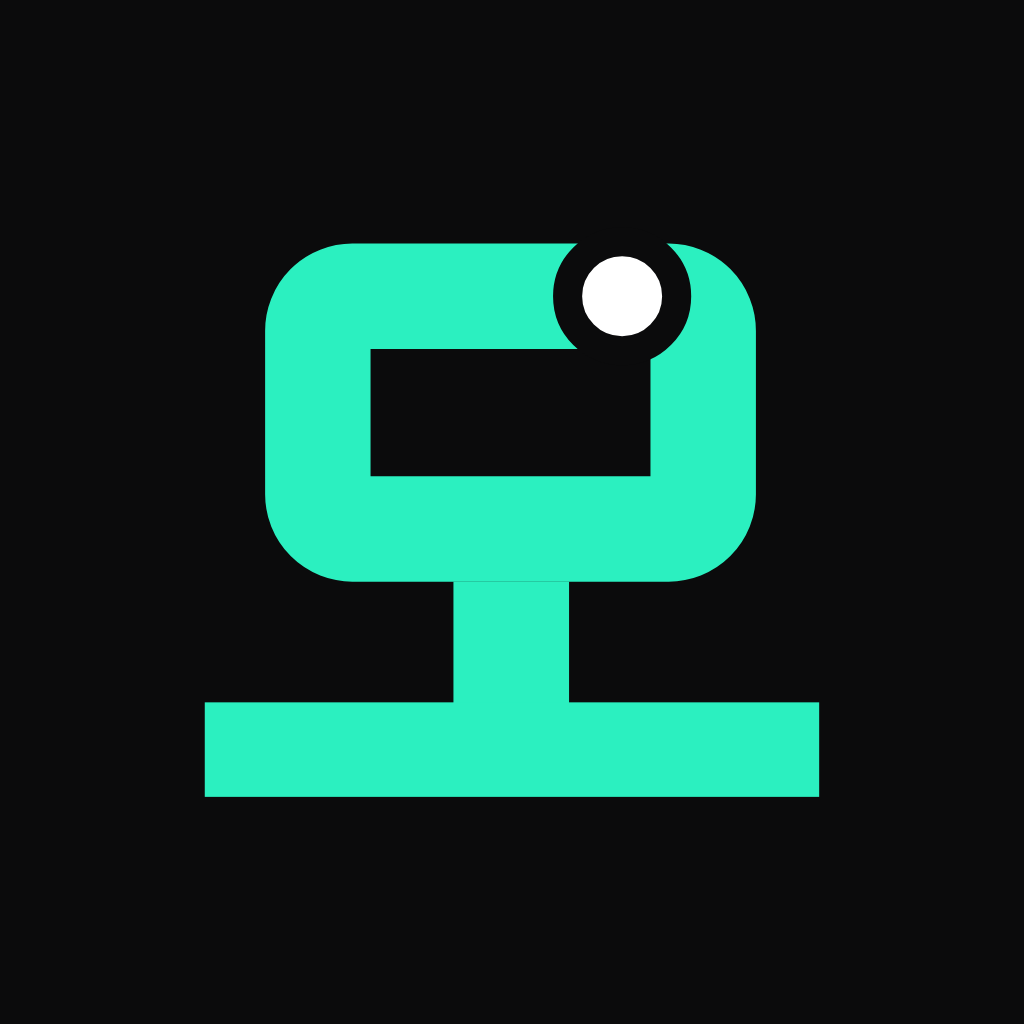
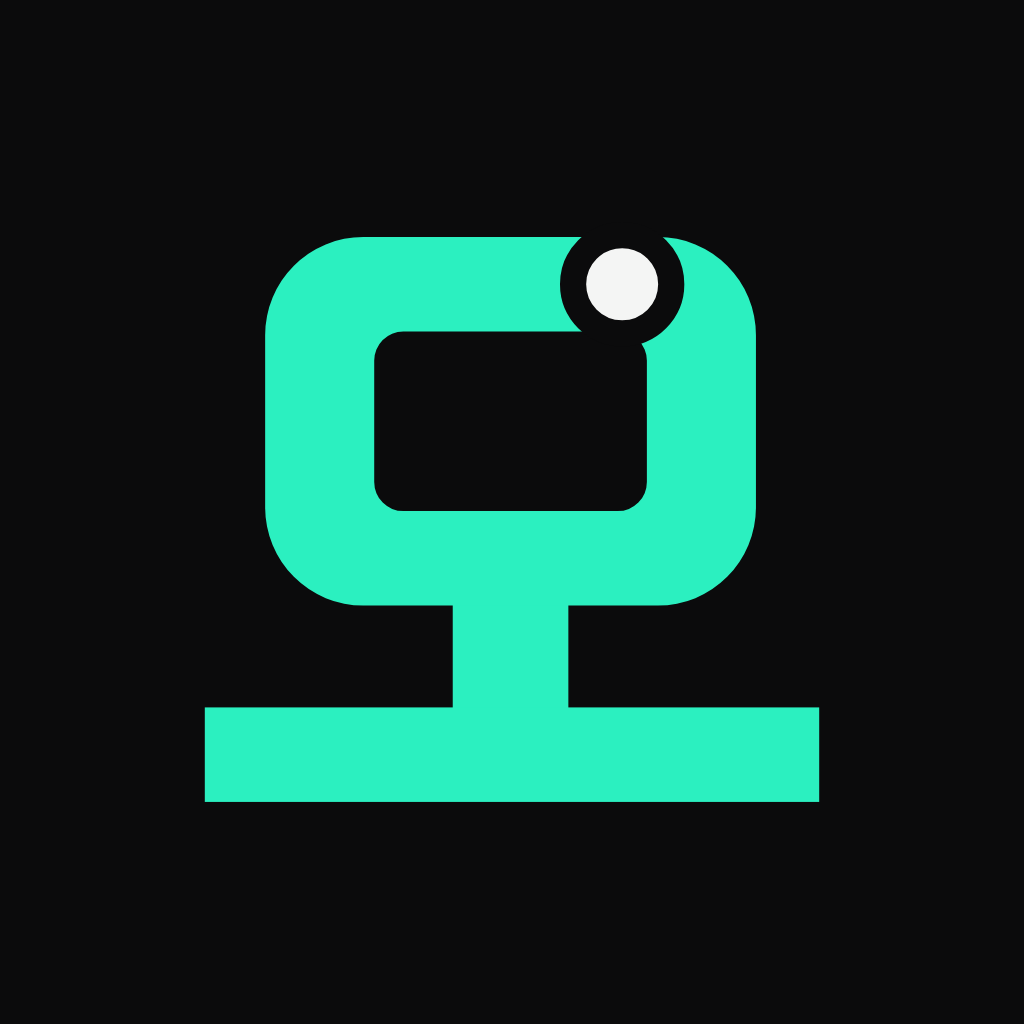
design: 앱 로고 다듬기 · 애니메이션 스플래시
- "모" 심볼: ㅁ 루프를 트랙처럼 안팎 모서리 둥글게, "달리"와 같은 획 대비, 속 넓힘, 출발점 조금 작게
- 앱 아이콘 다시 생성, iOS 18 다크 · tinted 아이콘 추가, Android 적응형 · 모노크롬 정리
- 네이티브 스플래시를 심볼로 바꾸고 앱 안 BrandSplash가 이어 받아 출발점이 한 바퀴 돈 뒤 사라짐 (동작 줄이기 대응)
- 로딩 · 스플래시 출발점이 둥근 트랙 길을 따라 돎
- 아이콘 · 스플래시 생성 스크립트 scripts/brand, 결정 로그 29항

diff --git a/frontend/src/components/Brand/BrandSplash.tsx b/frontend/src/components/Brand/BrandSplash.tsx
@@ -1,0 +1,118 @@
+import { useEffect, useState } from "react";
+import { StyleSheet, View } from "react-native";
+import Animated, {
+  Easing,
+  useAnimatedProps,
+  useAnimatedStyle,
+  useReducedMotion,
+  useSharedValue,
+  withDelay,
+  withTiming,
+} from "react-native-reanimated";
+import Svg, { Circle } from "react-native-svg";
+
+import { darkTheme } from "@/design/theme";
+import { motion } from "@/design/tokens";
+
+import { pointOnTrack } from "./BrandLoader";
+import { MoGlyph } from "./BrandSymbol";
+import { MO } from "./brandGeometry";
+
+const AnimatedCircle = Animated.createAnimatedComponent(Circle);
+
+// 네이티브 스플래시(app.json expo-splash-screen)와 같은 크기 · 자리 · 색. 바꾸면 둘 다 바꾼다.
+export const SPLASH_SYMBOL_SIZE = 120;
+
+type Props = {
+  // 화면에 그려졌다: 이때 네이티브 스플래시를 내리면 끊김 없이 이어진다
+  onShown: () => void;
+  // 애니메이션이 끝나 사라졌다
+  onDone: () => void;
+};
+
+// 앱 시작 스플래시. 네이티브 스플래시의 심볼을 그대로 이어받아 출발점이 "모" 루프를 한 바퀴 돈 뒤 사라진다.
+// 동작 줄이기 설정이면 돌지 않고 바로 사라진다 (ACCESSIBILITY 10항).
+export function BrandSplash({ onShown, onDone }: Props) {
+  const reduced = useReducedMotion();
+  const [shown, setShown] = useState(false);
+  const lap = useSharedValue(0);
+  const opacity = useSharedValue(1);
+  const colors = darkTheme.colors;
+
+  useEffect(() => {
+    if (!shown) return;
+    const lapMs = reduced ? 0 : motion.splashLap;
+    if (!reduced)
+      lap.value = withTiming(1, {
+        duration: lapMs,
+        easing: Easing.inOut(Easing.cubic),
+      });
+    opacity.value = withDelay(
+      lapMs,
+      withTiming(0, { duration: motion.splashFade }),
+    );
+    const timer = setTimeout(onDone, lapMs + motion.splashFade);
+    return () => clearTimeout(timer);
+    // 한 번만 재생한다
+    // eslint-disable-next-line react-hooks/exhaustive-deps
+  }, [shown]);
+
+  const dotProps = useAnimatedProps(() => {
+    const [cx, cy] = pointOnTrack(lap.value);
+    return { cx, cy };
+  });
+  const fade = useAnimatedStyle(() => ({ opacity: opacity.value }));
+
+  const b = MO.bounds;
+  const side = Math.max(b.width, b.height);
+  return (
+    <Animated.View
+      pointerEvents={shown ? "none" : "auto"}
+      accessibilityElementsHidden
+      importantForAccessibility="no-hide-descendants"
+      onLayout={() => {
+        if (shown) return;
+        setShown(true);
+        onShown();
+      }}
+      style={[
+        StyleSheet.absoluteFill,
+        styles.root,
+        { backgroundColor: colors.bg.canvas },
+        fade,
+      ]}
+    >
+      <View>
+        <Svg
+          width={SPLASH_SYMBOL_SIZE}
+          height={SPLASH_SYMBOL_SIZE}
+          viewBox={`${b.x - (side - b.width) / 2} ${b.y - (side - b.height) / 2} ${side} ${side}`}
+        >
+          <MoGlyph
+            glyph={colors.action.primary}
+            dotFill={colors.text.primary}
+            dotRing={colors.route.casing}
+            hideDot
+          />
+          <AnimatedCircle
+            animatedProps={dotProps}
+            cx={MO.dot.x}
+            cy={MO.dot.y}
+            r={MO.dot.r}
+            fill={colors.text.primary}
+            stroke={colors.bg.canvas}
+            strokeWidth={MO.dot.ring}
+          />
+        </Svg>
+      </View>
+    </Animated.View>
+  );
+}
+
+const styles = StyleSheet.create({
+  root: {
+    alignItems: "center",
+    justifyContent: "center",
+    zIndex: 1000,
+  },
+});

diff --git a/frontend/src/components/Brand/BrandLoader.tsx b/frontend/src/components/Brand/BrandLoader.tsx
@@ -41,16 +41,9 @@ export function BrandLoader({
       );
   }, [reduced, t]);
 
-  const { loop, dot } = MO;
+  const { dot } = MO;
   const animatedProps = useAnimatedProps(() => {
-    const [x, y] = pointOnLoop(
-      t.value,
-      loop.x,
-      loop.y,
-      loop.width,
-      loop.height,
-      dot.x,
-    );
+    const [x, y] = pointOnTrack(t.value);
     return { cx: x, cy: y };
   });
 
@@ -87,23 +80,40 @@ export function BrandLoader({
   );
 }
 
-// 루프(사각형 중심선) 둘레를 출발점부터 시계 방향으로 진행 비율 p만큼 간 지점
-function pointOnLoop(
-  p: number,
-  x: number,
-  y: number,
-  w: number,
-  h: number,
-  startX: number,
-): [number, number] {
+// 루프 획 가운데(둥근 사각형) 둘레를 출발점부터 시계 방향으로 진행 비율 p만큼 간 지점.
+// 스플래시 애니메이션도 같은 길을 쓴다.
+export function pointOnTrack(p: number): [number, number] {
   "worklet";
-  const per = 2 * (w + h);
-  let d = (((startX - x + p * per) % per) + per) % per;
-  if (d < w) return [x + d, y];
-  d -= w;
-  if (d < h) return [x + w, y + d];
-  d -= h;
-  if (d < w) return [x + w - d, y + h];
-  d -= w;
-  return [x, y + h - d];
+  const { x, y, width: w, height: h, radius: r } = MO.track;
+  const sw = w - 2 * r;
+  const sh = h - 2 * r;
+  const arc = (Math.PI * r) / 2;
+  const per = 2 * (sw + sh) + 4 * arc;
+  // 위 변 위의 출발점에서 시작
+  let d = ((((MO.dot.x - (x + r)) + p * per) % per) + per) % per;
+  if (d < sw) return [x + r + d, y];
+  d -= sw;
+  if (d < arc) {
+    const a = -Math.PI / 2 + d / r;
+    return [x + w - r + r * Math.cos(a), y + r + r * Math.sin(a)];
+  }
+  d -= arc;
+  if (d < sh) return [x + w, y + r + d];
+  d -= sh;
+  if (d < arc) {
+    const a = d / r;
+    return [x + w - r + r * Math.cos(a), y + h - r + r * Math.sin(a)];
+  }
+  d -= arc;
+  if (d < sw) return [x + w - r - d, y + h];
+  d -= sw;
+  if (d < arc) {
+    const a = Math.PI / 2 + d / r;
+    return [x + r + r * Math.cos(a), y + h - r + r * Math.sin(a)];
+  }
+  d -= arc;
+  if (d < sh) return [x, y + h - r - d];
+  d -= sh;
+  const a = Math.PI + d / r;
+  return [x + r + r * Math.cos(a), y + r + r * Math.sin(a)];
 }

diff --git a/frontend/src/app/_layout.tsx b/frontend/src/app/_layout.tsx
@@ -4,6 +4,7 @@ import { Stack } from 'expo-router';
 import * as SplashScreen from 'expo-splash-screen';
 import { useEffect, useState } from 'react';
 
+import { BrandSplash } from '@/components/Brand/BrandSplash';
 import { darkTheme, lightTheme, ThemeProvider } from '@/design/theme';
 import { fontAssets, fontFamily } from '@/design/tokens';
 import { restoreSession, useAuthStatus } from '@/features/auth/session';
@@ -18,15 +19,14 @@ export default function RootLayout() {
   const [queryClient] = useState(() => new QueryClient());
   const auth = useAuthStatus();
   const ready = (fontsLoaded || !!fontError) && auth !== 'restoring';
+  // 네이티브 스플래시 뒤를 이어 받는 앱 안 스플래시 (한 번만)
+  const [splashDone, setSplashDone] = useState(false);
 
   // AUTH-003: 앱을 켜면 저장된 세션부터 확인한다
   useEffect(() => {
     restoreSession();
   }, []);
 
-  useEffect(() => {
-    if (ready) SplashScreen.hideAsync();
-  }, [ready]);
 
   // 로그아웃 · 탈퇴하면 이전 계정의 서버 데이터 캐시를 비운다
   useEffect(() => {
@@ -34,6 +34,7 @@ export default function RootLayout() {
   }, [auth, queryClient]);
 
   // 폰트와 세션 확인이 끝날 때까지 splash를 유지한다. 폰트 로드에 실패하면 시스템 폰트로 계속 진행한다.
+  // 준비되면 앱 안 스플래시가 같은 모양으로 그려진 뒤 네이티브 스플래시를 내리고, 출발점이 한 바퀴 돈 뒤 사라진다.
   if (!ready) return null;
 
   return (
@@ -95,6 +96,7 @@ export default function RootLayout() {
           {/* 약관 · 개인정보 처리방침은 로그인 전에도 본다 */}
           <Stack.Screen name="legal/[kind]" options={{ headerShown: false }} />
         </Stack>
+        {splashDone ? null : <BrandSplash onShown={() => SplashScreen.hideAsync()} onDone={() => setSplashDone(true)} />}
       </ThemeProvider>
     </QueryClientProvider>
   );

diff --git a/frontend/src/components/Brand/brandGeometry.ts b/frontend/src/components/Brand/brandGeometry.ts
@@ -1,4 +1,4 @@
-// 자동 생성 파일. 직접 고치지 않는다 (FOUNDATION-DECISION-LOG 11항).
+// 생성 파일. 직접 고치지 않는다 (FOUNDATION-DECISION-LOG 11 · 29항).
 // 달리모 워드마크·심볼 geometry. 단위는 Pretendard Black의 글꼴 단위(UPM 2048), y는 아래로 증가.
 // "달", "리"는 Pretendard Black(SIL OFL 1.1) 글리프 윤곽이고, "모"는 ㅁ을 코스 루프 + 출발점으로 다시 그린 전용 글자다.
 export const WORDMARK = {
@@ -14,11 +14,16 @@ export const WORDMARK = {
 } as const;
 
 // "모" 한 글자 (심볼). 기준 x=0
+// ㅁ은 육상 트랙처럼 바깥 · 안쪽 모서리가 모두 둥근 루프다. 세로 획은 가로 획보다 조금 두껍다("달리"와 같은 대비).
+// 작은 크기(29~60px)에서 속이 막히지 않도록 루프 안쪽을 넓게 두었다 (FOUNDATION-DECISION-LOG 29항).
 export const MO = {
-  loop: { x: 353, y: 569, width: 1060, height: 640, radius: 95, stroke: 290 },
-  stem: { x: 726, y: 1354, width: 318, height: 372 },
+  // 루프 윤곽 (바깥 · 안쪽 둥근 사각형, fill-rule evenodd)
+  loop: "M478 392H1288A270 270 0 0 1 1558 662V1136A270 270 0 0 1 1288 1406H478A270 270 0 0 1 208 1136V662A270 270 0 0 1 478 392ZM588 652H1178A80 80 0 0 1 1258 732V1066A80 80 0 0 1 1178 1146H588A80 80 0 0 1 508 1066V732A80 80 0 0 1 588 652Z",
+  // 출발점이 도는 길 (루프 획 가운데를 지나는 둥근 사각형)
+  track: { x: 358, y: 522, width: 1050, height: 754, radius: 150 },
+  stem: { x: 724, y: 1386, width: 318, height: 330 },
   bar: { x: 42, y: 1686, width: 1690, height: 260 },
-  dot: { x: 1190, y: 569, r: 150, ring: 80 },
+  dot: { x: 1190, y: 522, r: 135, ring: 72 },
   // 심볼 외곽 (점 포함)
-  bounds: { x: 42, y: 379, width: 1690, height: 1567 },
+  bounds: { x: 42, y: 351, width: 1690, height: 1595 },
 } as const;

diff --git a/frontend/scripts/brand/render.js b/frontend/scripts/brand/render.js
@@ -1,0 +1,9 @@
+const { chromium } = require('playwright'); const fs = require('fs');
+const jobs = JSON.parse(process.argv[2]);
+(async () => { const b = await chromium.launch({ executablePath: '/opt/pw-browsers/chromium-1194/chrome-linux/chrome', args: ['--no-sandbox'] });
+ for (const [svg, out, w, h] of jobs) {
+  const p = await b.newPage({ viewport: { width: w, height: h }, deviceScaleFactor: 1 });
+  const s = fs.readFileSync(svg, 'utf8').replace(/<svg /, `<svg style="display:block;width:${w}px;height:${h}px" `);
+  await p.setContent(`<html><body style="margin:0;background:transparent">${s}</body></html>`);
+  await p.screenshot({ path: out, omitBackground: true, clip: { x: 0, y: 0, width: w, height: h } }); await p.close(); }
+ await b.close(); })();

diff --git a/frontend/src/components/Brand/BrandSymbol.tsx b/frontend/src/components/Brand/BrandSymbol.tsx
@@ -1,5 +1,5 @@
 import { View } from "react-native";
-import Svg, { Circle, G, Rect } from "react-native-svg";
+import Svg, { Circle, G, Path, Rect } from "react-native-svg";
 
 import { darkTheme, useTheme } from "@/design/theme";
 
@@ -69,16 +69,7 @@ export function MoGlyph({
         height={bar.height}
         fill={glyph}
       />
-      <Rect
-        x={loop.x}
-        y={loop.y}
-        width={loop.width}
-        height={loop.height}
-        rx={loop.radius}
-        fill="none"
-        stroke={glyph}
-        strokeWidth={loop.stroke}
-      />
+      <Path d={loop} fill={glyph} fillRule="evenodd" />
       {hideDot ? null : (
         <Circle
           cx={dot.x}

diff --git a/frontend/src/design/tokens/motion.ts b/frontend/src/design/tokens/motion.ts
@@ -7,6 +7,9 @@ export const motion = {
   routeWarning: 250,
   finishReveal: 400,
   countdownStep: 1000,
+  // 앱 시작: 출발점이 "모" 루프를 한 바퀴 돈 뒤 사라진다 (FOUNDATION-DECISION-LOG 29항)
+  splashLap: 900,
+  splashFade: 280,
 } as const;
 
 // pressed 상태 피드백 불투명도

diff --git a/frontend/scripts/brand/brand_assets.py b/frontend/scripts/brand/brand_assets.py
@@ -1,0 +1,56 @@
+# 앱 아이콘 · 스플래시 · 파비콘 SVG를 심볼 geometry(src/components/Brand/brandGeometry.ts)에서 만든다.
+# 실행: cd frontend/scripts/brand && python3 brand_assets.py && node render.js "$(cat jobs.json)"
+#       (render.js는 Playwright Chromium으로 PNG를 그린다) → out/*.png를 assets/images로 복사.
+#       icon.png · android-icon-background.png는 알파 없이 RGB로 저장한다.
+import re, json, os
+HERE=os.path.dirname(os.path.abspath(__file__))
+os.chdir(HERE); os.makedirs('out', exist_ok=True)
+src=open(os.path.join(HERE,'../../src/components/Brand/brandGeometry.ts')).read()
+mo=src[src.index('export const MO'):]
+loop=re.search(r'loop: "([^"]+)"',mo).group(1)
+def obj(name):
+    m=re.search(name+r': \{([^}]+)\}',mo).group(1)
+    return {k:float(v) for k,v in re.findall(r'(\w+): ([\d.]+)',m)}
+stem,bar,dot,bounds=obj('stem'),obj('bar'),obj('dot'),obj('bounds')
+MINT='#2BF0C0'; INK='#0B0B0C'; WHITE='#F4F5F4'  # darkTheme text.primary (앱 안 심볼과 같은 색)
+
+def glyph(c, dotfill, ring=None, knock=False):
+    # ring=None + knock: 출발점 둘레를 투명하게 뚫는다 (모노크롬 · tinted)
+    body=(f'<rect x="{stem["x"]}" y="{stem["y"]}" width="{stem["width"]}" height="{stem["height"]}"/>'
+          f'<rect x="{bar["x"]}" y="{bar["y"]}" width="{bar["width"]}" height="{bar["height"]}"/>'
+          f'<path fill-rule="evenodd" d="{loop}"/>')
+    ro=dot['r']+dot['ring']/2
+    if knock:
+        return (f'<defs><mask id="k"><rect x="-5000" y="-5000" width="20000" height="20000" fill="#fff"/>'
+                f'<circle cx="{dot["x"]}" cy="{dot["y"]}" r="{ro}" fill="#000"/></mask></defs>'
+                f'<g fill="{c}" mask="url(#k)">{body}</g><circle cx="{dot["x"]}" cy="{dot["y"]}" r="{dot["r"]}" fill="{dotfill}"/>')
+    return (f'<g fill="{c}">{body}</g><circle cx="{dot["x"]}" cy="{dot["y"]}" r="{dot["r"]}" fill="{dotfill}" '
+            f'stroke="{ring}" stroke-width="{dot["ring"]}"/>')
+
+def square(inner, size, glyph_frac, bg=None, dy=0.0):
+    # glyph_frac: 캔버스 대비 심볼 정사각 viewBox 한 변 비율. dy: 아래(+)로 옮길 비율
+    side=max(bounds['width'],bounds['height'])
+    vx=bounds['x']-(side-bounds['width'])/2; vy=bounds['y']-(side-bounds['height'])/2
+    g=size*glyph_frac; sc=g/side
+    tx=(size-g)/2-vx*sc; ty=(size-g)/2-vy*sc+dy*size
+    s=f'<svg xmlns="http://www.w3.org/2000/svg" viewBox="0 0 {size} {size}" width="{size}" height="{size}">'
+    if bg: s+=f'<rect width="{size}" height="{size}" fill="{bg}"/>'
+    return s+f'<g transform="translate({tx:.3f},{ty:.3f}) scale({sc:.6f})">{inner}</g></svg>'
+
+signal=glyph(MINT, WHITE, INK)
+jobs=[]
+def out(name, svg, size):
+    open(name+'.svg','w').write(svg); jobs.append([name+'.svg', 'out/'+name+'.png', size, size])
+# iOS: 앱 아이콘(검정 바탕). 기호가 홈 화면에서 너무 작지 않게 캔버스의 60%
+out('icon', square(signal,1024,0.60,INK), 1024)
+# iOS 18 다크: 투명 바탕(시스템 어두운 바탕 위), tinted: 흑백(출발점 둘레는 뚫음)
+out('icon-dark', square(glyph(MINT,WHITE,knock=True),1024,0.60), 1024)
+out('icon-tinted', square(glyph('#FFFFFF','#FFFFFF',knock=True),1024,0.60), 1024)
+# Android 적응형: 전경은 안전 영역(지름 66/108) 안에 들어오게 41%
+out('android-icon-foreground', square(signal,1024,0.41), 1024)
+out('android-icon-monochrome', square(glyph('#FFFFFF','#FFFFFF',knock=True),1024,0.41), 1024)
+out('android-icon-background', f'<svg xmlns="http://www.w3.org/2000/svg" viewBox="0 0 1024 1024" width="1024" height="1024"><rect width="1024" height="1024" fill="{INK}"/></svg>', 1024)
+# 스플래시: 심볼만. 앱 안 애니메이션이 같은 크기 · 자리에서 이어 받는다 (BrandSymbol과 같은 정사각 viewBox)
+out('splash-icon', square(signal,1024,1.0), 1024)
+out('favicon', square(signal,48,0.74,INK), 48)
+json.dump(jobs,open('jobs.json','w'))

diff --git a/frontend/docs/ui/FOUNDATION-DECISION-LOG.md b/frontend/docs/ui/FOUNDATION-DECISION-LOG.md
@@ -722,3 +722,23 @@ Pretendard (사용자 승인, 88.1장 후보). Regular·Medium·SemiBold·ExtraB
 | PoC 화면 | 러닝마다 "서버 동기화 PENDING / SYNCED / FAILED · 서버 id" | |
 | 확인한 것 | 동기화를 Node SQLite · 메모리 저장소로 실행해 확인(60개씩 나눔, 오프라인이면 안 보냄, backoff 시각 전 대기 · 같은 batchUuid 재전송, SENDING 복구, finish → SYNCED, 서버가 잊으면 처음부터, FINISHING이면 대기, 422면 FAILED 후 재시도 없음). 웹에서 온라인 종료 → 바로 결과, 러닝 중 오프라인 안내, 오프라인 종료 → 휴대폰에 저장 → 다시 연결 → 자동으로 올라가 결과의 "휴대폰에만 저장됨"이 사라짐. iOS · Android 번들 빌드 | |
 | 확인 못 한 것 | 아이폰에서 비행기 모드 · 네트워크 전환(GPS-M-002), 실제 서버 | |
+
+## 29. 앱 로고 · 스플래시 다듬기
+
+사용자 결정: 11항 "모" 심볼은 그대로 두고 다듬는다. 스플래시는 짧은 애니메이션.
+
+| 항목 | 판단 | 근거 |
+| --- | --- | --- |
+| 비교 | 현재 / A 트랙 모서리 / D A+속 넓힘 / E D+점 작게를 220 · 120 · 60 · 29px과 워드마크로 비교해 E를 골랐다 | 작은 아이콘(29~60px)에서 "모"가 읽혀야 한다 |
+| ㅁ 루프 | 선 굵기로 그리던 둥근 사각형을 바깥 · 안쪽 윤곽으로 바꿨다. 안쪽 모서리도 둥글게(육상 트랙) | 11.1항 "ㅁ을 한 바퀴 코스 루프로" |
+| 획 대비 | 세로 획 300 · 가로 획 260(글꼴 단위). 기둥 318 · 가로획 260과 맞춰 "달리"(Pretendard Black)와 같은 대비 | 워드마크 안에서 "모"만 균일 두께로 보이던 점 |
+| 속 넓힘 | 루프를 위아래로 조금 키우고 기둥을 짧게 해 안쪽 높이 390 → 494 | 29px에서 속이 막힘 |
+| 출발점 | 반지름 150 → 135, 둘레 80 → 72 | 큰 크기에서 점이 글자보다 먼저 보이던 점 |
+| 로딩 · 스플래시 경로 | 출발점이 루프 획 가운데의 둥근 사각형 길을 따라 돈다(`pointOnTrack`) | 모서리에서 획 밖으로 나가지 않게 |
+| 앱 아이콘 | 검정 바탕, 심볼 폭 60%. iOS 18 다크(투명 바탕) · tinted(흑백, 출발점 둘레를 뚫음) 추가 | Apple HIG iOS 18 아이콘 모드 |
+| Android | 적응형 전경 41%(안전 영역 지름 66/108 안), 모노크롬(테마 아이콘) 출발점 둘레를 뚫음 | Android 적응형 아이콘 안전 영역 |
+| 스플래시 | 네이티브: 검정 바탕 + 심볼 120(워드마크 대신). 앱 안 `BrandSplash`가 같은 크기 · 자리 · 색으로 이어 받아 네이티브 스플래시를 내리고, 출발점이 루프를 한 바퀴(0.9초) 돈 뒤 0.28초 동안 사라진다. 동작 줄이기면 돌지 않고 바로 사라진다 | 사용자 결정, ACCESSIBILITY 10항, `motion.splashLap` · `splashFade` |
+| 색 | 출발점은 앱 안 심볼과 같은 `text.primary`(#F4F5F4) | 네이티브 → 앱 스플래시 이어질 때 색이 바뀌지 않게 |
+| 만드는 법 | `scripts/brand/brand_assets.py`가 `brandGeometry.ts`에서 SVG를 만들고 `render.js`(Playwright)가 PNG로 그린다 | geometry 한 곳에서 아이콘 · 스플래시 · 앱 안 심볼을 함께 바꾼다 |
+| 확인한 것 | 웹에서 스플래시 프레임(한 바퀴 → 사라짐 → 로그인), 동작 줄이기, 로그인 · 탐색 심볼, iOS · Android 번들, prebuild 결과(AppIcon 3종 · Android 스플래시 아이콘), expo-doctor | |
+| 확인 못 한 것 | 실제 기기에서 네이티브 스플래시 → 앱 스플래시가 한 치 어긋남 없이 이어지는지(특히 Android 12+ 스플래시 아이콘 크기), 홈 화면 아이콘 모양 | |
